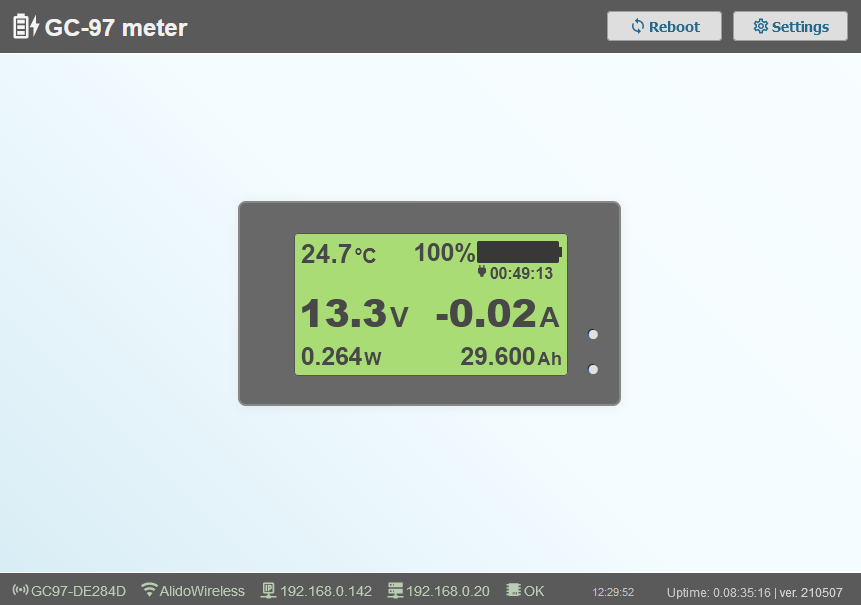
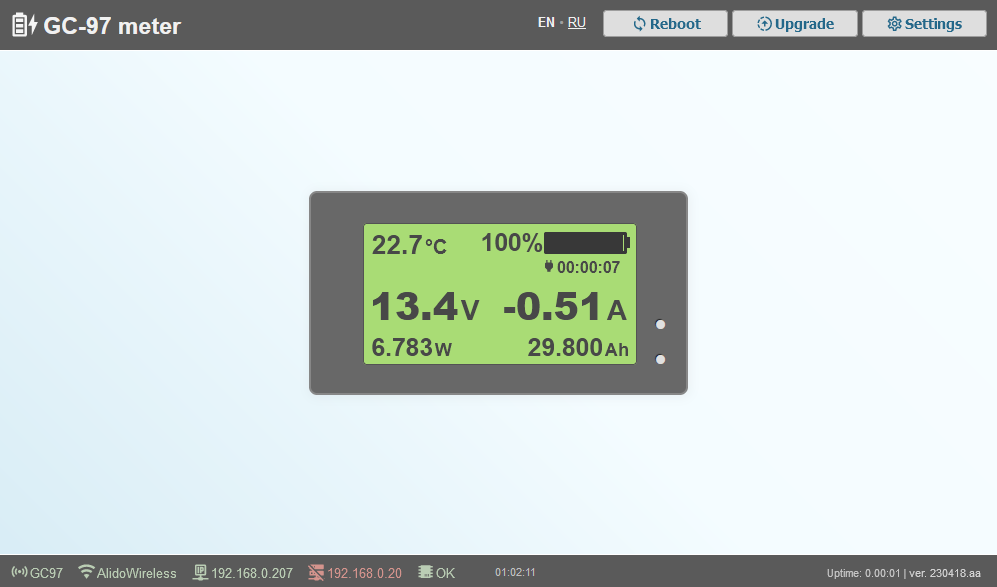
Обновление заглавного скриншота

diff --git a/README.md b/README.md
@@ -157,6 +157,9 @@
 6. Откройте <http://192.168.4.1> и убедитесь, что WiFi подключен и контроллер получил IP-адрес в вашей сети (например, 192.168.1.100);
 7. Откройте страницу по указанному IP адресу и убедитесь, что OTA работает (повторите с шага 4, если это не так);
 8. Откройте страницу обновления (http://{ip-адрес}/update) и выберите в строке FileSystem скачанный [SPIFFS](https://github.com/alidonet/GC97_ESP/blob/main/GC97_ESP.spiffs.bin.gz) файл. Нажмите "Обновить" и дождитесь окончания прошивки;
+
+![alt Страница обновления](manual/manual_web_update.png)
+
 9. После перезагрузки повторно подключитесь к ESP: теперь вам доступен полноценный интерфейс с расширенным набором опций.
 
 В последующем, для обновления по воздуху, используйте встроенный функционал. Для контроля процесса первоначальной настройки/прошивки вы можете использовать любой монитор COM-порта, к которому подключен ваш ESP (19200 baud rate).
